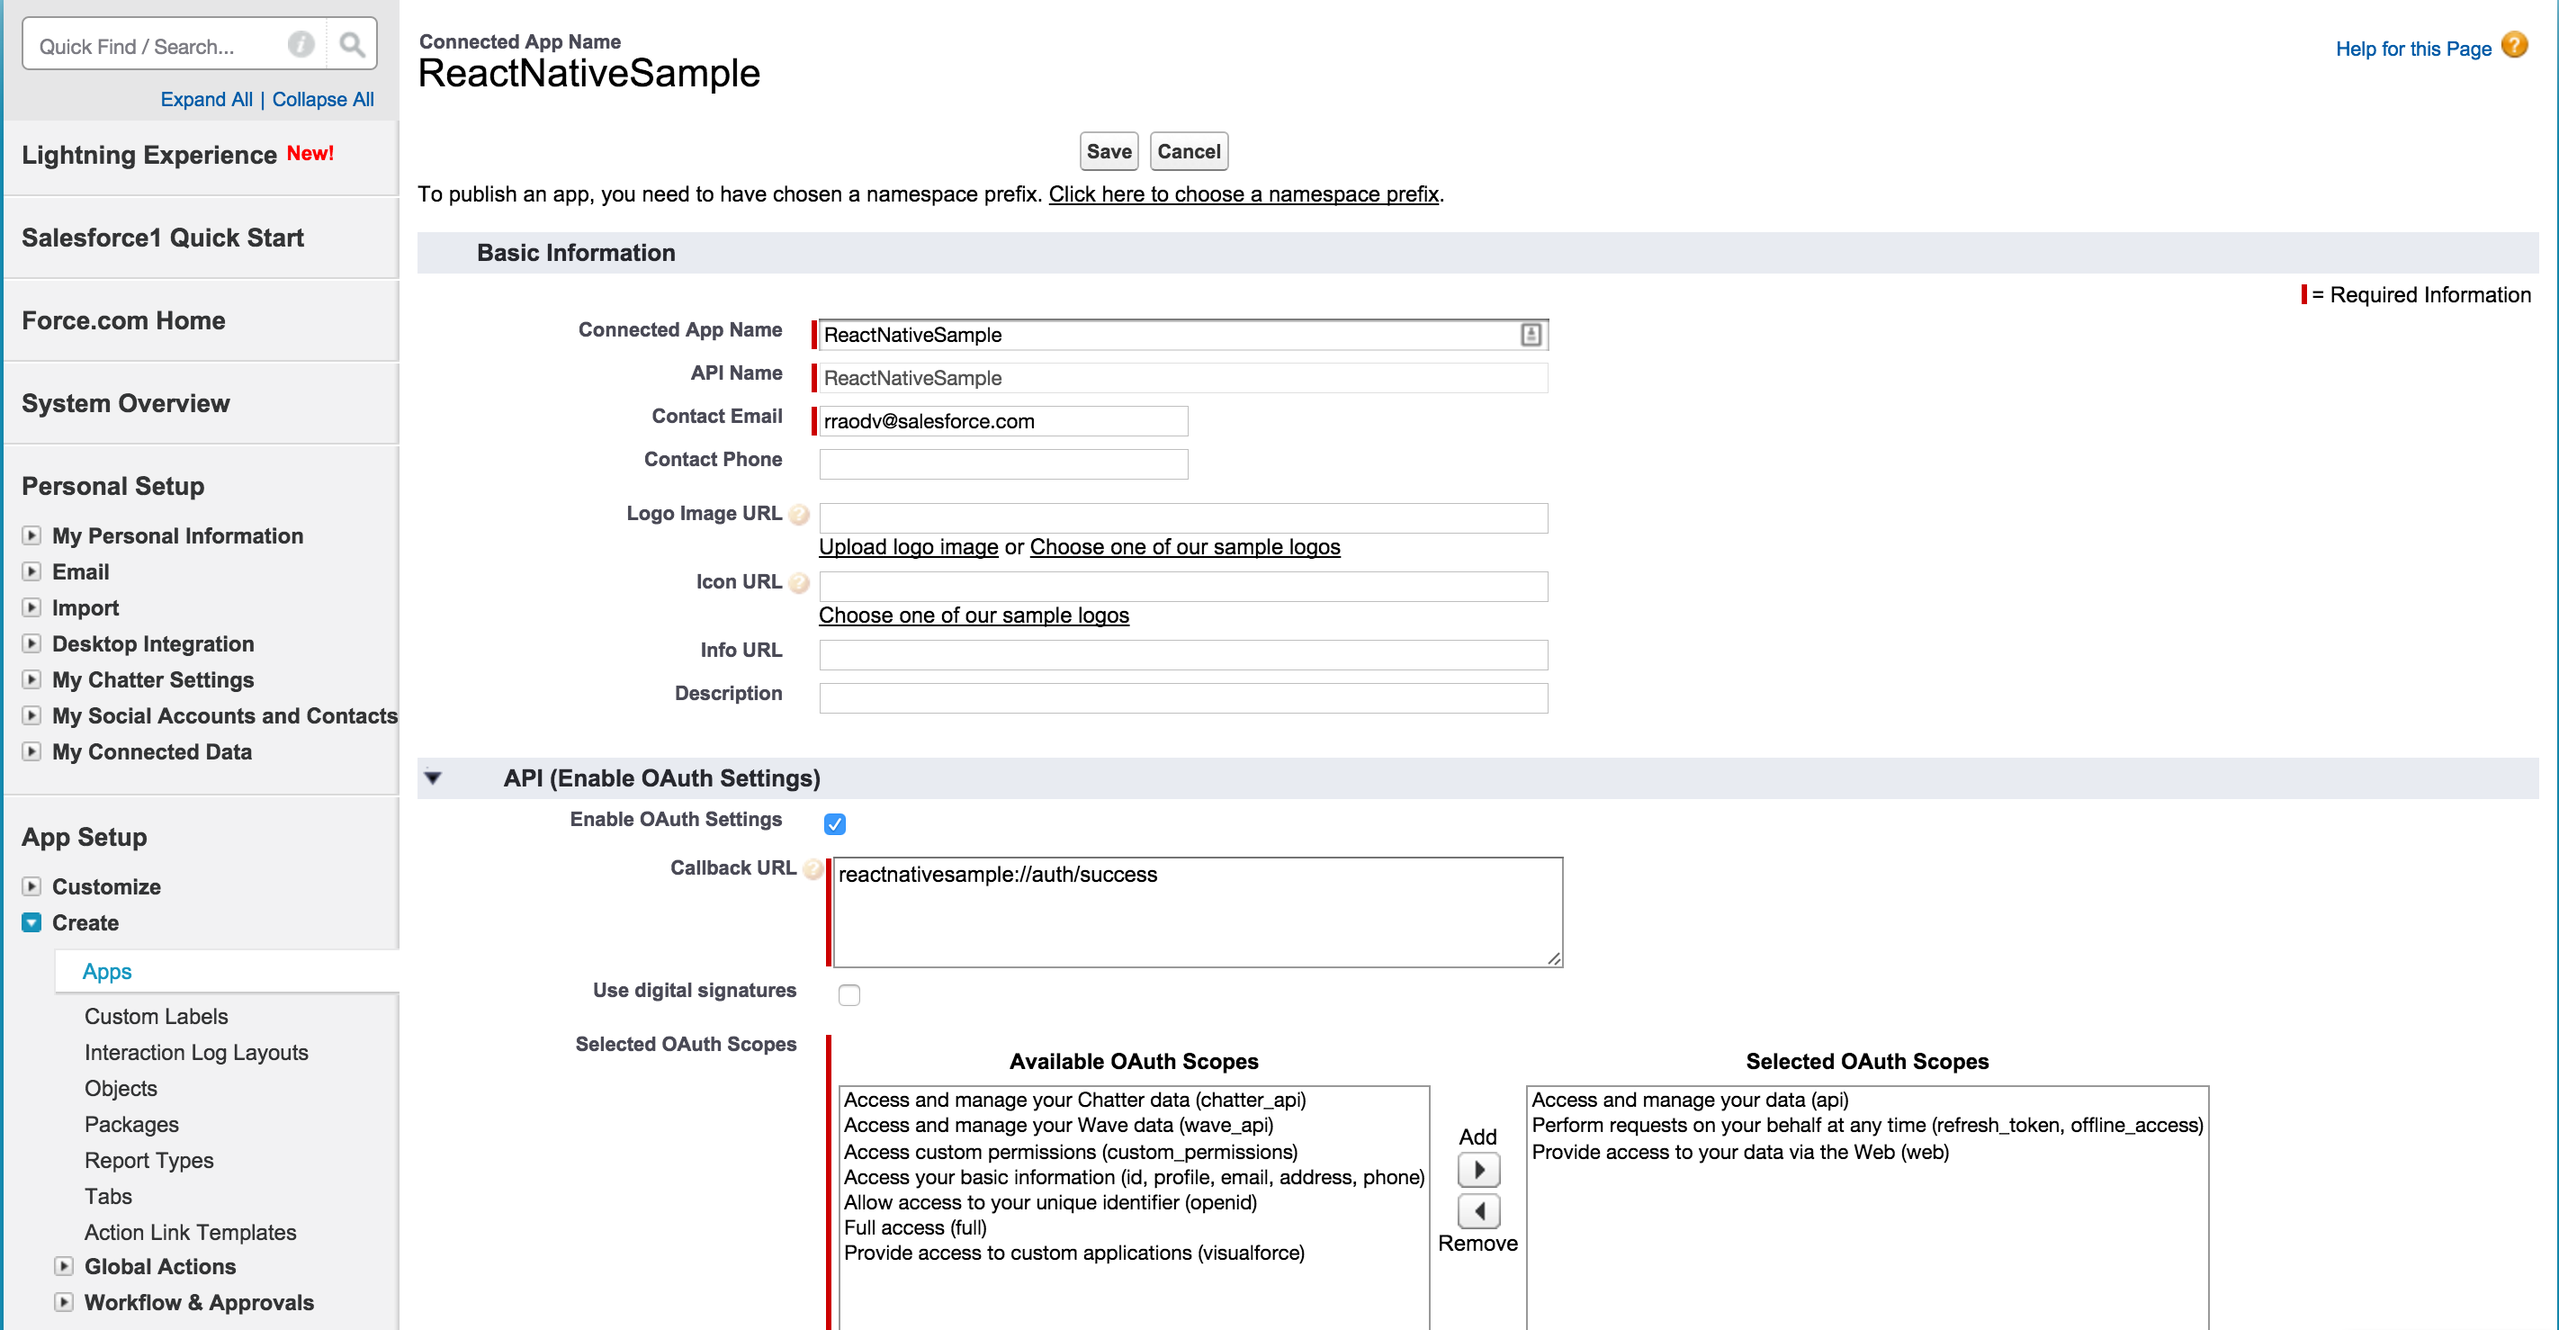
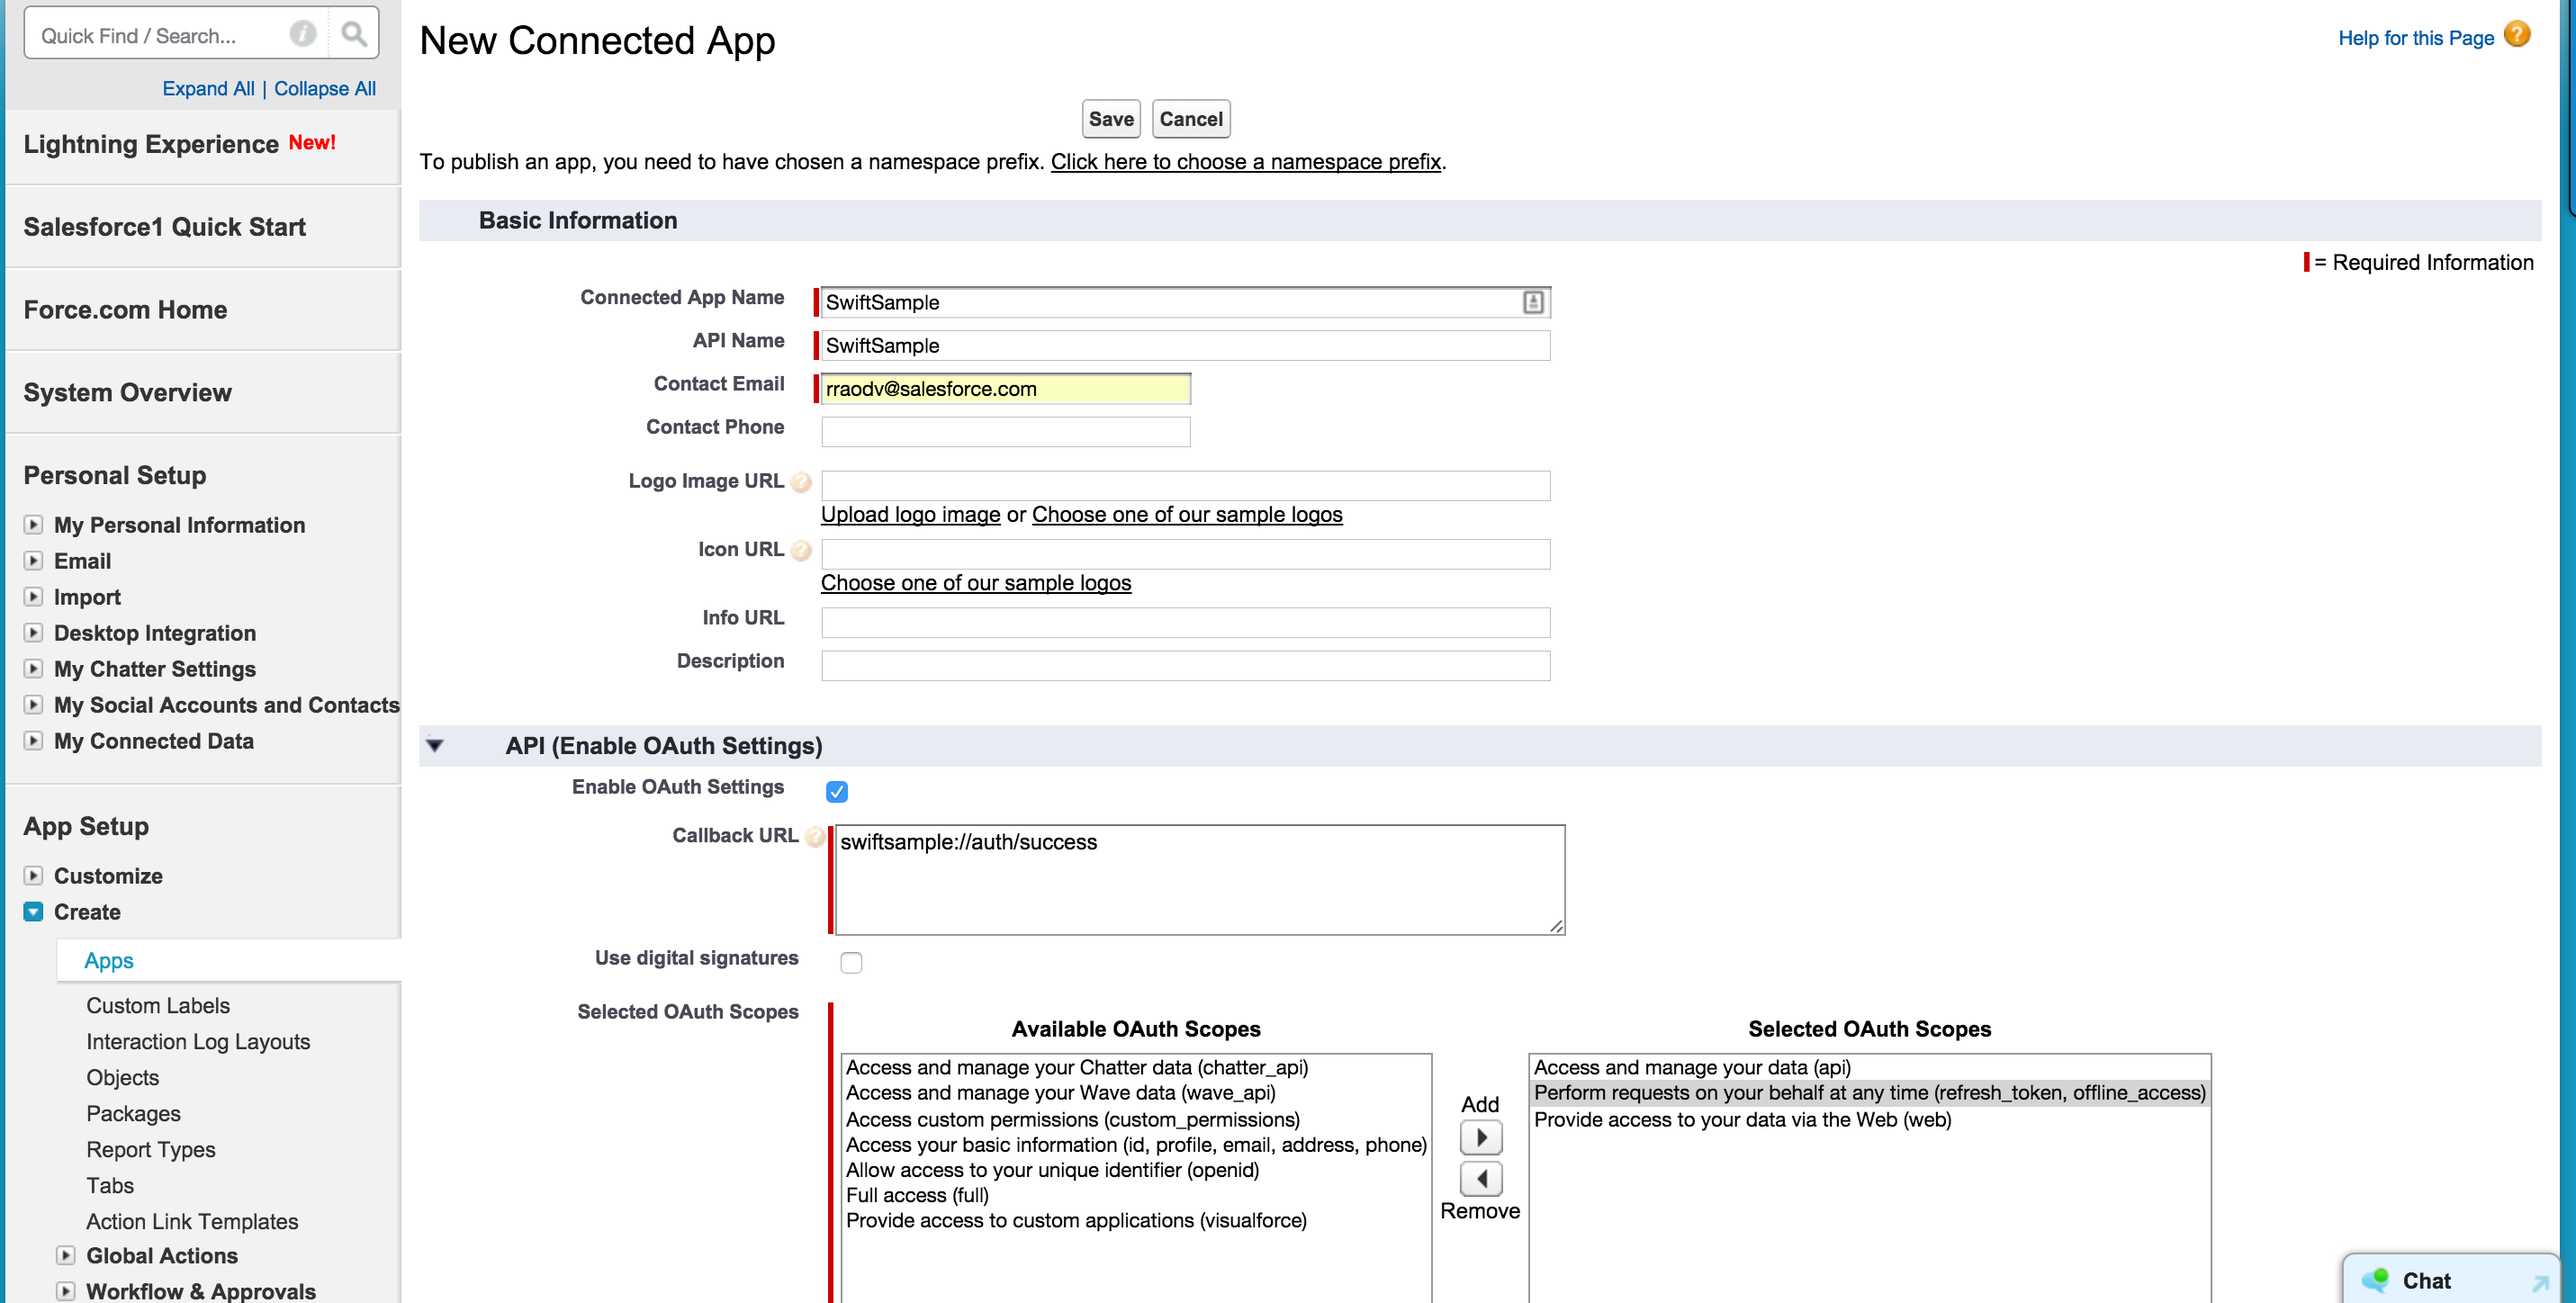
init

diff --git a/_layouts/module.html b/_layouts/module.html
@@ -43,7 +43,7 @@
         <div id="disqus_thread"></div>
         <script type="text/javascript">
             /* * * CONFIGURATION VARIABLES: EDIT BEFORE PASTING INTO YOUR WEBPAGE * * */
-            var disqus_shortname = 'salesforcereactnative'; // required: replace example with your forum shortname
+            var disqus_shortname = 'salesforceswifttutorial'; // required: replace example with your forum shortname
 
             /* * * DON'T EDIT BELOW THIS LINE * * */
             (function() {

diff --git a/mobile-sdk-swift-adding-connected-app.md b/mobile-sdk-swift-adding-connected-app.md
@@ -9,21 +9,20 @@ You may remember that when we generated the app using **forceios** we used the C
 1. In your Developer Edition organization, from Setup, type **apps** in the Quick Find box.
 2. Under **Create**, Click on **Apps** and scroll down to **Connected Apps** section, then click **New** to bring up the **New Connected App** page.
 3. Under Basic Information, complete the form as follows.
-	- **Connected App Name**: ReactNativeSample
+	- **Connected App Name**: SwiftSample
 	- **API Name**: accept the suggested value
 	- **Contact Email**: enter your email address
 4. Under OAuth Settings, check **Enable OAuth Settings**.
-5. Set Callback URL to **reactnativesample://auth/success**.
+5. Set Callback URL to **swiftsample://auth/success**.
 6. Under **Available OAuth Scopes**, select *Access and manage your data (api), Provide access to your data via the Web (web), and Perform requests on your behalf at any time (refresh_token, offline_access)*, then click **Add**.
 7. Click **Save**.
 	<img src="images/connected-app-entry.png" style="height:500px" />
 8. Click **Continue** and wait for 5-10 minutes.
 
 	<img src="images/connected-app-info.png" style="height:300px" />
- 
- 
-> Allow from 2-10 minutes for your changes to take effect on the server before using the connected app.
- 
+  
+ > Allow from 2-10 minutes for your changes to take effect on the server before using the connected app.
+  
 
 
 ## Step 2: Add App ID and Callback URL
@@ -31,28 +30,30 @@ App ID (Connected App's "Consumer Key") and the Callback URL is stored in the na
 
 1. Switch to Xcode
 2. Stop the Xcode app if it's running (top-left corner).
-3. Open `AppDelegate.m`
+3. Open `AppDelegate.swift` under `SwiftSample > Classes` folder
 4. Change `RemoteAccessConsumerKey`'s value to match the **Consumer Key** copied from the connected app we created earlier.
 5. Change `OAuthRedirectURI`'s value to match the **Callback URL** from the connected app we created earlier. 
+	
+	<img src="images/xcode-connected-app.png" style="height:500px" />
 6. Save.
-	<img src="images/xcode-connected-app.png" style="height:400px" />
 7. Switch to the iOS Simulator.
 
 ## Step 3: Restart Everything
-8. From the Simulator's menu, click on ** Simulator** then click on **Reset Content and Settings**.
-9. Switch to the terminal where we have "Swift CLI" and stop it by pressing **Control + C**, then restart it by running **npm start**
-10. Switch to Xcode and run the app by pressing the Arrow button
-11. You should now see Simulator opening up the app and show the Salesforce login screen.
-12. Login with your developer org credentials.
-13. Notice that next OAuth screen shows **ReactNativeSample**. This means our app now uses the new Connected App configuration.
-	<img src="images/new-connected-app.png" style="height:500px" />
-14.  Press "Approve" in the next OAuth screen. 
+1. From the Simulator's menu, click on ** Simulator** then click on **Reset Content and Settings**.
+2. Switch to the terminal where we have "Swift CLI" and stop it by pressing **Control + C**, then restart it by running **npm start**
+3. Switch to Xcode and run the app by pressing the Arrow button
+4. You should now see Simulator opening up the app and show the Salesforce login screen.
+5. Login with your developer org credentials.
+6. Notice that next OAuth screen shows **SwiftSample**. This means our app now uses the new Connected App configuration.
 
-> Note that you need to reset the simulator because Sample app caches old Connected App's information. 
+	<img src="images/new-oauth-screen.png" style="height:500px" />
+7.  Press "Approve" in the next OAuth screen. 
+
+> Note that you need to reset the simulator because Sample app caches old Connected App's information. Sample app also doesn't have "Log off" functionality.
 
 <div class="row" style="margin-top:40px;">
 <div class="col-sm-12">
 <a href="mobile-sdk-swift-running-forceios-app.html" class="btn btn-default"><i class="glyphicon glyphicon-chevron-left"></i> Previous</a>
-<a href="mobile-sdk-swift-updating-javascript.html" class="btn btn-default pull-right">Next <i class="glyphicon glyphicon-chevron-right"></i></a>
+<a href="next.html" class="btn btn-default pull-right">Next <i class="glyphicon glyphicon-chevron-right"></i></a>
 </div>
 </div>

diff --git a/mobile-sdk-swift-running-forceios-app.md b/mobile-sdk-swift-running-forceios-app.md
@@ -4,31 +4,24 @@ layout: module
 # 3. Running forceios App
 In this unit, you'll run the forceios app you created earlier.
 
-
-## Step 1: Run The CLI
-Before we can run the app in Xcode, we need to first run Swift CLI. This tool internally watches for any changes made to the app and updates the native app. 
-
-1. While still in the `ReactNativeSample` folder, run: `npm start`
-
-	<img src="images/react-cli.png" style="height:350px" />
-2. Keep the Swift CLI running and switch to Xcode.
-
-## Step 2: Start The App in Xcode
-1. Change the target to "ReactNativeSample" (near the top left corner) 
+## Step 1: Start The App in Xcode
+1. Change the target to "SwiftSample" (near the top left corner) 
 	
-	<img src="images/xcode-swift-start.png" style="height:500px" />
+	<img src="images/xcode-start.png" style="width:700px" />
 
 2. Click the "Build and Run" (the "Arrow" button near the top-left corner).
 3. You should see the **Simulator** app open and ask for Salesforce Login
 
-	<img src="images/simulator.png" style="height:500px" />
+	<img src="images/simulator.png" style="height:500px;" />
 	
 	> Sometimes **Simulator** app opens behind the Xcode, so you may need to manually switch to it and bring it forefront. 
-4. Login using any Salesforce developer Org. credentials.
-5. Click "Allow" in the next OAuth screen.
+
+## Step 2: Login To Salesforce
+1. Login using any Salesforce developer Org. credentials.
+2. Click "Allow" in the next OAuth screen.
 
 	<img src="images/xcode-oauth-screen.png" style="height:500px" />
-6. You should now see the sample app that shows list of Salesforce users in that Org.
+3. You should now see the sample app that shows list of Salesforce users in that Org.
 
 	<img src="images/sampleApp.png" style="height:500px" />
 <div class="row" style="margin-top:40px;">

diff --git a/next.md b/next.md
@@ -6,11 +6,11 @@ layout: default
 
 Congratulations on completing this tutorial!
 
-You may want togo over the Swift documentation. 
+You may want go over the Swift documentation. 
 
-- <a href="https://facebook.github.io/swift/docs/getting-started.html" target="_blank">Swift Docs</a>
-- <a href="https://facebook.github.io/swift/docs/style.html#content" target="_blank">Swift Styles</a>
-- <a href="https://facebook.github.io/swift/docs/native-modules-ios.html#content" target="_blank">Native Modules Guides</a>
+- <a href="https://swift.org/" target="_blank">swift.org</a> 
+- <a href="https://developer.apple.com/swift/resources/" target="_blank">Swift 2 Resources (Guides, Videos, Sample Code, iTunes U Courses)</a> 
+- <a href="https://github.com/forcedotcom/SalesforceMobileSDK-iOS" target="_blank">SalesforceMobileSDK-iOS</a> 
 
 If you found this tutorial useful, consider sharing it:
 
@@ -32,6 +32,6 @@ Thanks!
 
 <div class="row" style="margin-top:40px;">
 <div class="col-sm-12">
-<a href="mobile-sdk-swift-workflow-summary.html" class="btn btn-default"><i class="glyphicon glyphicon-chevron-left"></i> Previous</a>
+<a href="mobile-sdk-swift-adding-connected-app.html" class="btn btn-default"><i class="glyphicon glyphicon-chevron-left"></i> Previous</a>
 </div>
 </div>

diff --git a/index.md b/index.md
@@ -11,9 +11,6 @@ In this tutorial, you'll learn how to get started with <a href="https://develope
 - Creating forceios App
 - Running forceios App
 - Adding Connected App
-- Updating JavaScript
-- Adding New Swift Component
-- Swift Development Workflow
 - Next Steps
 
 <div class="row" style="margin-top:40px;">
